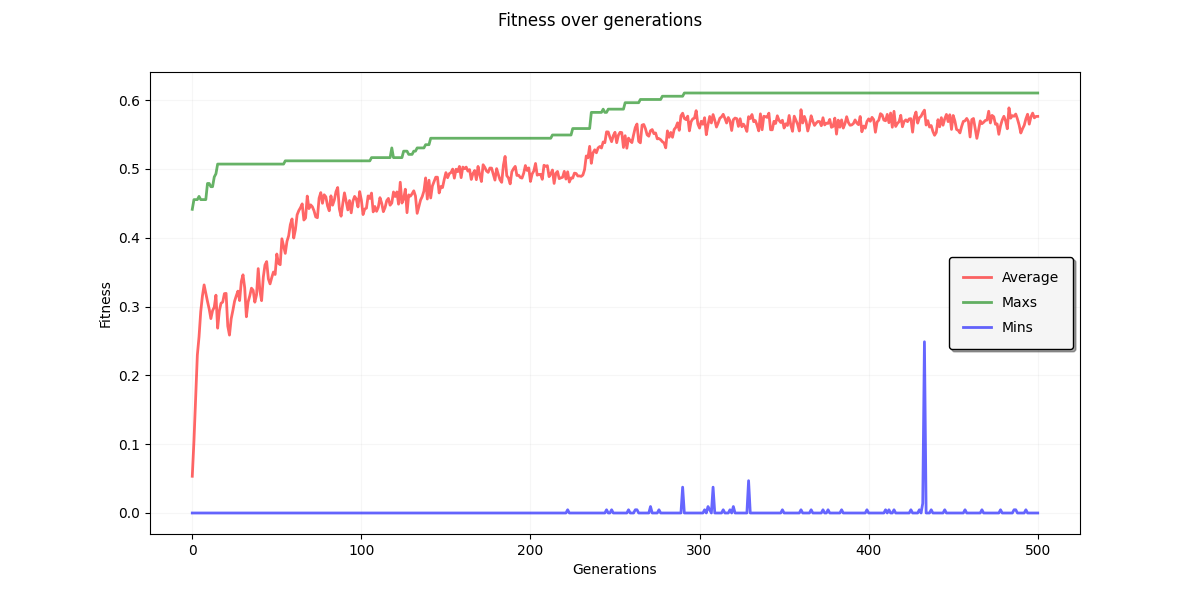
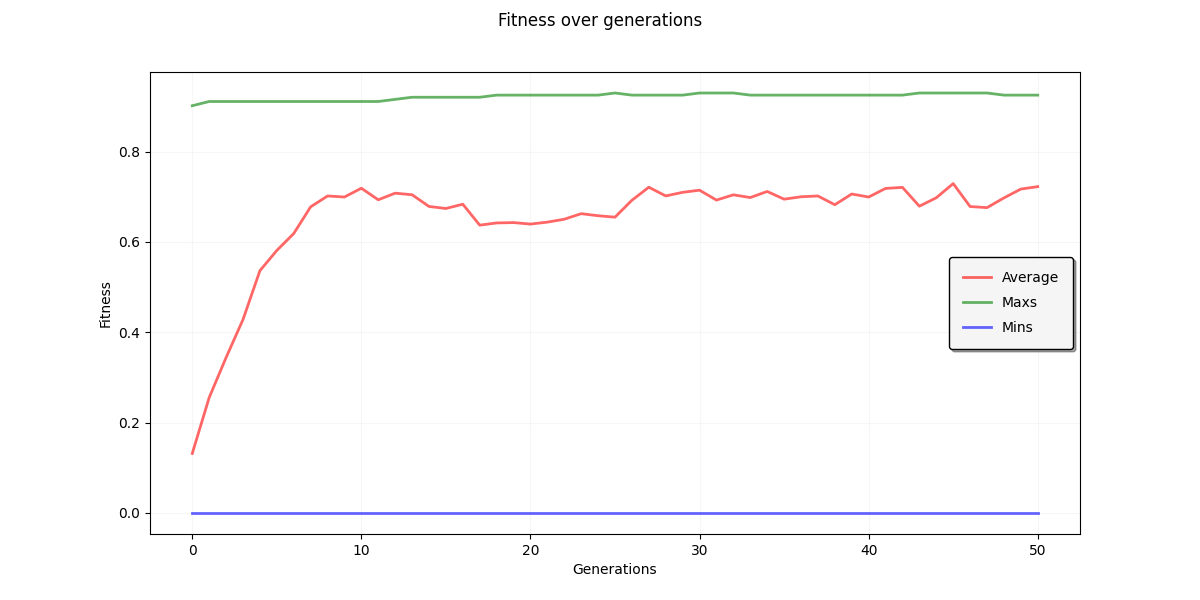
Added only basic operators

diff --git a/src/sol/Configuration.py b/src/sol/Configuration.py
@@ -6,33 +6,30 @@ from Evaluation import eval_ind_simple
 
 
 def protDiv(left, right):
-    return 0 if right == 0 else left / right
-
+    return 1 if right == 0 else left / right
 
 def protSqrt(x):
     return math.sqrt(abs(x))
 
-
 def config_individual():
     # Create primitive set
     pset = gp.PrimitiveSet("MAIN", 9)
+    pset.renameArguments(ARG0="RI", ARG1="Na", ARG2="Mg",
+                         ARG3="Al", ARG4="Si", ARG5="K",
+                         ARG6="Ca", ARG7="Ba", ARG8="Fe")
 
     # Add all primitives to the primitive set
     pset.addPrimitive(operator.add, 2)
     pset.addPrimitive(operator.sub, 2)
     pset.addPrimitive(operator.mul, 2)
-    pset.addPrimitive(protDiv, 2)
     pset.addPrimitive(operator.neg, 1)
-    pset.addPrimitive(operator.abs, 1)
+    pset.addPrimitive(protDiv, 2)
+    # pset.addPrimitive(operator.abs, 1)
     # pset.addPrimitive(protSqrt, 1)
     # pset.addPrimitive(math.cos, 1)
     # pset.addPrimitive(math.sin, 1)
 
-    pset.renameArguments(ARG0="RI", ARG1="Na", ARG2="Mg",
-                         ARG3="Al", ARG4="Si", ARG5="K",
-                         ARG6="Ca", ARG7="Ba", ARG8="Fe")
-
-    # pset.addEphemeralConstant("rand101", lambda: random.uniform(0, 1))
+    # pset.addEphemeralConstant("rand101", lambda: random.randint(0, 10))
 
     return pset
 
@@ -71,7 +68,7 @@ def config_algorithm(inputs, targets, toolbox, pset, max_tree_height, max_subtre
     toolbox.decorate("mutate", gp.staticLimit(
         key=operator.attrgetter("height"), max_value=limit_height))
 
-    n_elem = 50
+    n_elem = 200
     toolbox.decorate("mate", gp.staticLimit(key=len, max_value=n_elem))
     toolbox.decorate("mutate", gp.staticLimit(key=len, max_value=n_elem))
 

diff --git a/src/sol/Output.py b/src/sol/Output.py
@@ -6,6 +6,20 @@ from sklearn.metrics import ConfusionMatrixDisplay
 from sklearn import metrics
 import matplotlib.pyplot as plt
 
+def get_parsed_label(label):
+    label_dict = {
+        "protDiv": "/",
+        "protSqrt": "√",
+        "mul": "*",
+        "sub": "-",
+        "add": "+",
+    }
+    
+    has_parsed = label in label_dict
+    label = label_dict[label] if has_parsed else label
+    
+    return label
+
 def save_generated_tree(individual):
     nodes, edges, labels = gp.graph(individual)
 
@@ -13,10 +27,13 @@ def save_generated_tree(individual):
     g.add_nodes_from(nodes)
     g.add_edges_from(edges)
     g.layout(prog="dot")
-
+    
+    g.node_attr.update(color="lightblue2", style="filled")
+    
     for i in nodes:
         n = g.get_node(i)
-        n.attr["label"] = labels[i]
+        l = get_parsed_label(labels[i])
+        n.attr["label"] = l
 
     output_path = "../../output/tree.png"
 
@@ -27,7 +44,6 @@ def plot_conf_matrix(targets, guesses):
     ConfusionMatrixDisplay(cm).plot()
 
     plt.savefig(os.path.join(os.getcwd(), "../../output/conf_mat.png"))
-
     plt.show()
 
 def show_or_save(plot, file_name, title):

diff --git a/src/sol/main.py b/src/sol/main.py
@@ -8,9 +8,9 @@ from Stats import config_stats, plot_fitness_penalty
 from Output import save_generated_tree, plot_conf_matrix, print_metrics_report
 
 
-def main(CXPB=0.5, MUTPB=0.2, NGEN=500, NIND=200, use_binary=False,
+def main(CXPB=0.5, MUTPB=0.2, NGEN=50, NIND=500, use_binary=True,
          save_tree=True, plot_stats=True, plot_matrix=True, debug=True,
-         max_tree_height=10, max_subtree_height=3, max_mutated_subtree_height=2):
+         max_tree_height=5, max_subtree_height=3, max_mutated_subtree_height=2):
 
     # Create toolbox.
     # -----------------------------
